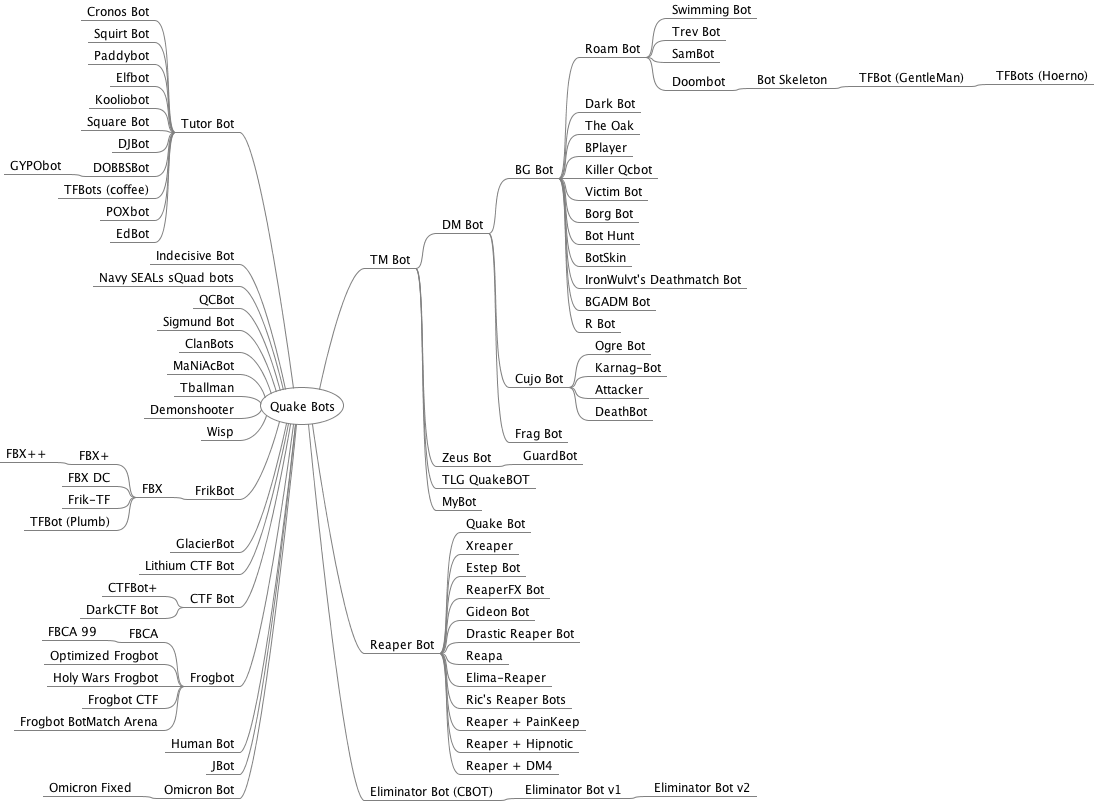
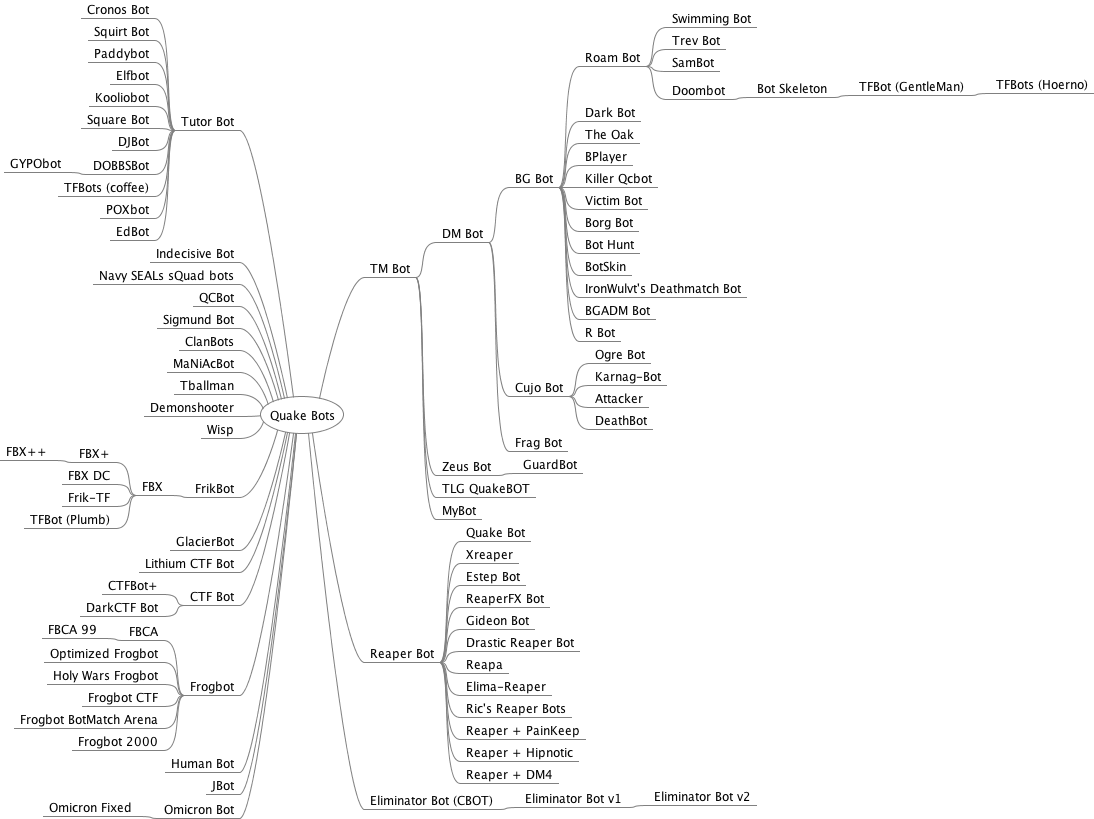
Frogbot 2000

diff --git a/mindmap/QuakeBots.mm b/mindmap/QuakeBots.mm
@@ -109,6 +109,7 @@
 <node CREATED="1623134947170" ID="ID_21275149" MODIFIED="1623134948038" TEXT="Holy Wars Frogbot"/>
 <node CREATED="1623192862868" ID="ID_1388671764" MODIFIED="1623192863956" TEXT="Frogbot CTF"/>
 <node CREATED="1623195071773" ID="ID_1843658020" MODIFIED="1623195073198" TEXT="Frogbot BotMatch Arena"/>
+<node CREATED="1623196037734" ID="ID_157402095" MODIFIED="1623196038351" TEXT="Frogbot 2000"/>
 </node>
 <node CREATED="1623028654081" ID="ID_1831431959" MODIFIED="1623028655051" POSITION="left" TEXT="Human Bot"/>
 <node CREATED="1623028405586" ID="ID_364088443" MODIFIED="1623028407494" POSITION="left" TEXT="JBot"/>

diff --git a/README.md b/README.md
@@ -51,6 +51,7 @@ FrikBot X (FBX) | Ryan Smith aka "Frika C" | [fbxc.zip](bin/fbxc.zip)
 FrikBot X+ (FBX+) | Igor9 | fbx+.zip
 FrikBot X++ (FBX++) | Joel Baxter aka "Johnny Law" | [fbx++.zip](bin/fbx++.zip)
 FrikBot | Ryan Smith aka "Frika C" | [frkbt09b.zip](bin/frkbt09b.zip)
+Frogbot 2000 | Dennis aka "Justice" | f2k006d.zip
 Frogbot BotMatch Arena | Alex aka "DmSouL" | [botmatch.ZIP](bin/botmatch.ZIP) (-)
 Frogbot Clan Arena (FBCA) 0.99 | "Baker" | [frogbots-099.zip](bin/frogbots-099.zip)
 Frogbot Clan Arena (FBCA) | Alexey Pakhomov aka "ParboiL" | [fbca102kt.zip](bin/fbca102kt.zip) (*)
